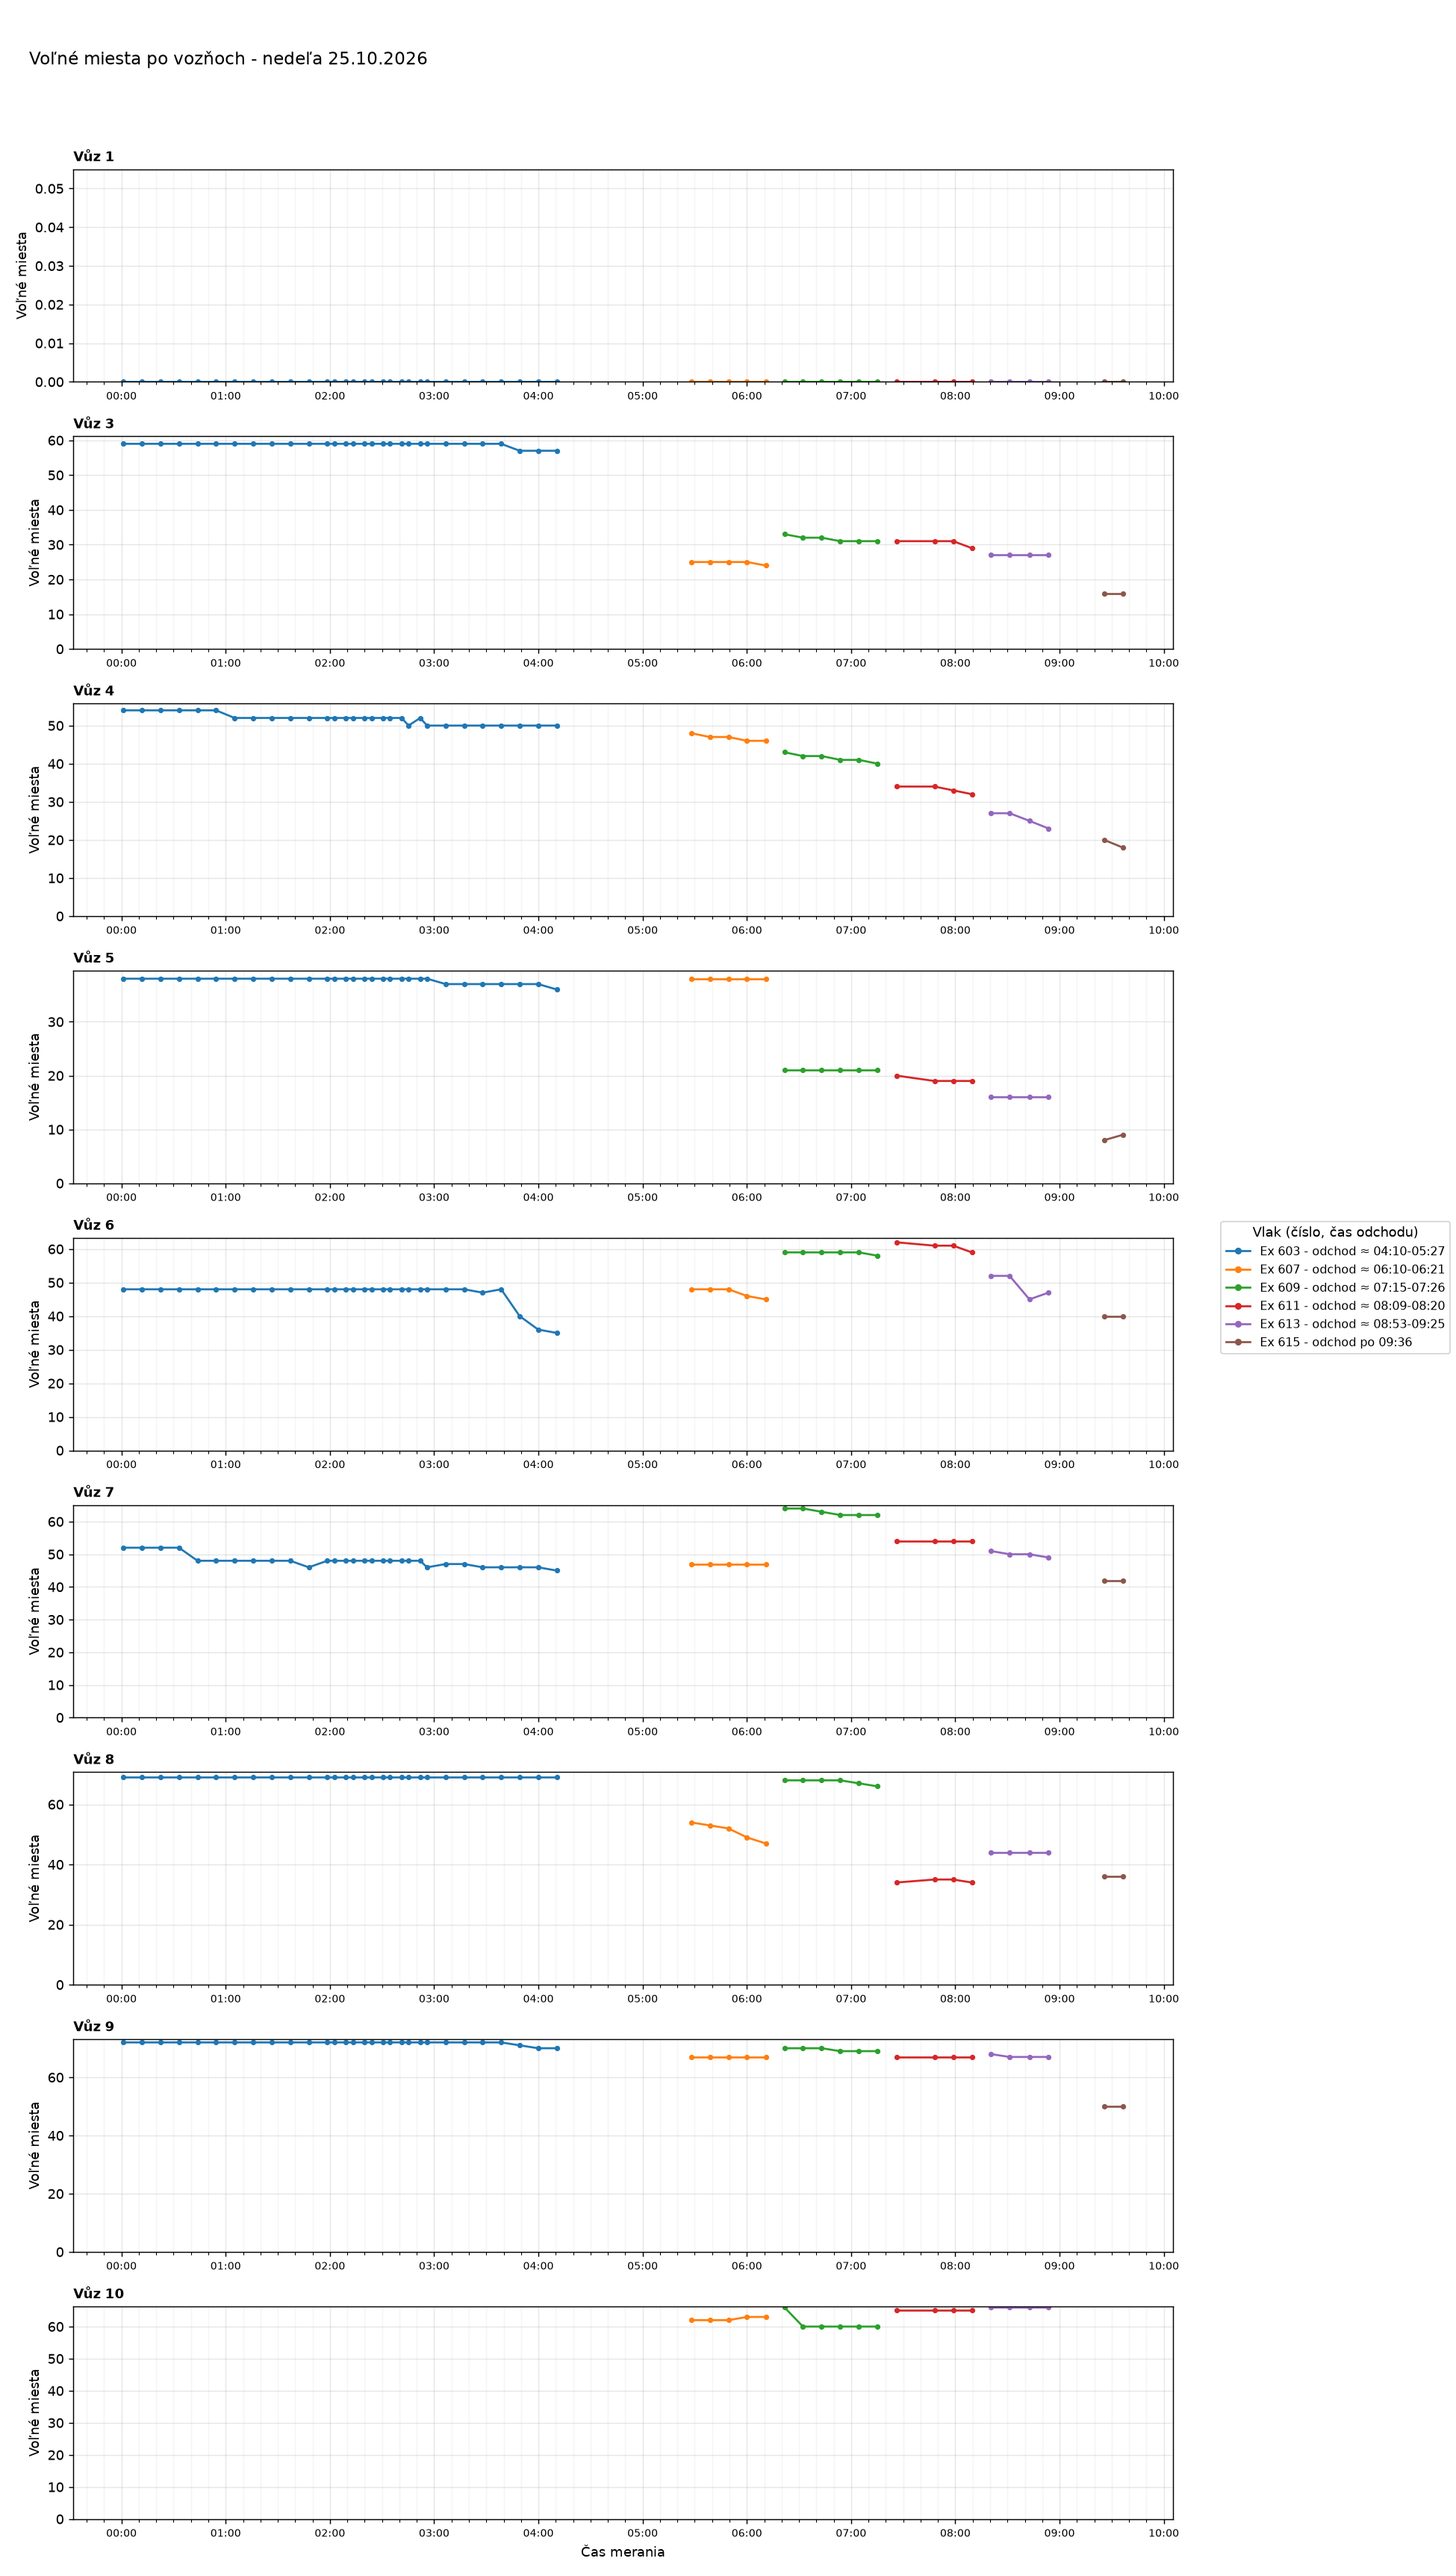
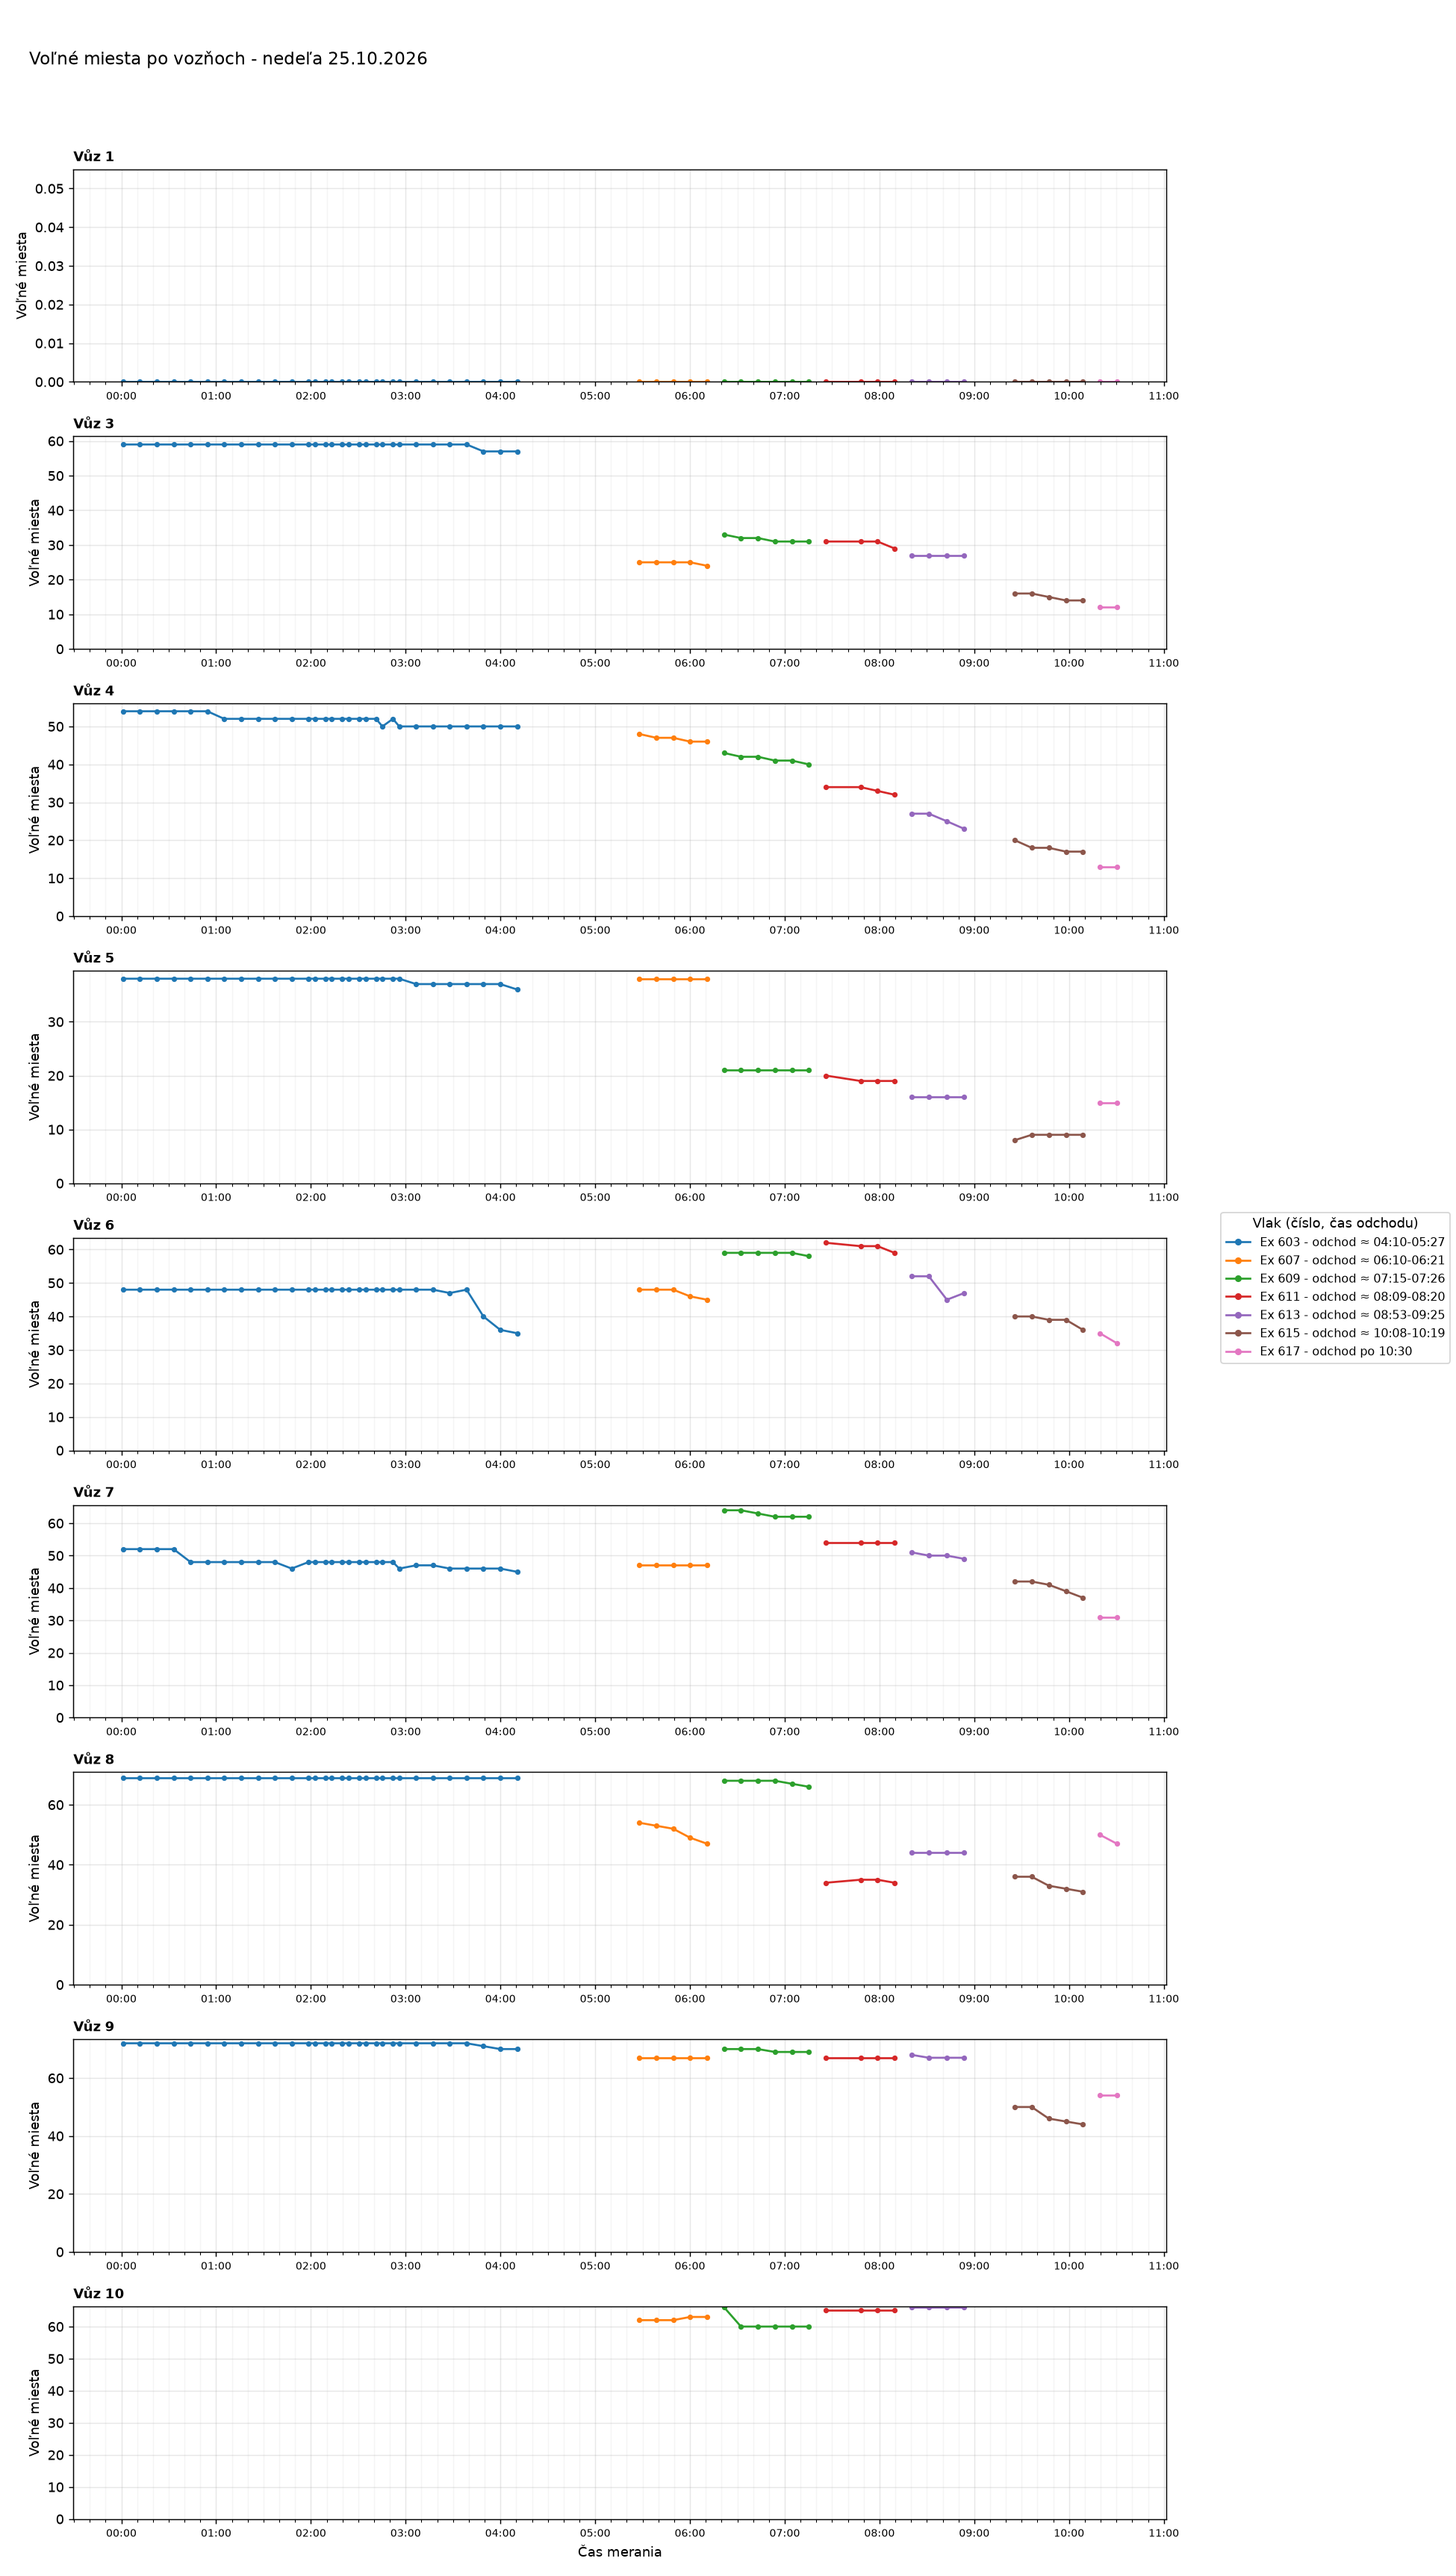
Aktualizácia grafov 2026-10-25 10:39

Changed region(s): [[0.8308, 0.4652, 1.0, 0.5272], [0.6462, 0.8684, 0.6769, 0.8994], [0.4, 0.9614, 0.4308, 0.9925]]

diff --git a/index.html b/index.html
@@ -35,7 +35,7 @@ h2.oddiel{margin:36px 0 0;font-size:1.4rem}
 <body>
 <main>
 <h1>Voľné miesta vo vlakoch</h1>
-<p class="muted">Posledné meranie: 25.10.2026 09:36 ·
+<p class="muted">Posledné meranie: 25.10.2026 10:30 ·
 <a href="data/obsadenost_data.csv">stiahnuť dáta (CSV)</a></p>
 <nav class="nav"><a href="#suhrn">Súhrn</a><a href="#statistiky">Štatistiky</a><a href="#historia">História grafov</a></nav>
 
@@ -44,7 +44,7 @@ h2.oddiel{margin:36px 0 0;font-size:1.4rem}
 <div class="tablewrap"><table>
 <thead><tr><th>Deň</th><th>Meraní</th><th>Vlakov</th><th>Čas meraní</th></tr></thead>
 <tbody>
-<tr><td><a href="#d2026-10-25">nedeľa 25.10.2026</a></td><td>51</td><td>6</td><td>00:01-09:36</td></tr>
+<tr><td><a href="#d2026-10-25">nedeľa 25.10.2026</a></td><td>56</td><td>7</td><td>00:01-10:30</td></tr>
 <tr><td><a href="#d2026-10-24">sobota 24.10.2026</a></td><td>98</td><td>14</td><td>00:10-23:50</td></tr>
 <tr><td><a href="#d2026-10-23">piatok 23.10.2026</a></td><td>64</td><td>13</td><td>07:25-23:49</td></tr>
 <tr><td><a href="#d2026-10-22">štvrtok 22.10.2026</a></td><td>80</td><td>11</td><td>00:08-16:10</td></tr>
